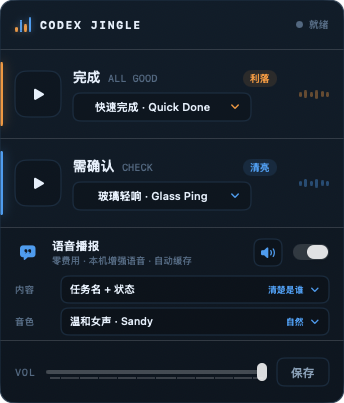
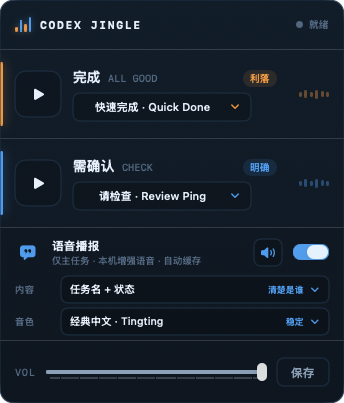
fix: announce parent tasks only

diff --git a/src/CodexNotificationSettings.swift b/src/CodexNotificationSettings.swift
@@ -656,7 +656,7 @@ struct SpeechSettingsRow: View {
                     Text("语音播报")
                         .font(.system(size: 12, weight: .semibold))
                         .foregroundStyle(ink)
-                    Text("零费用 · 本机增强语音 · 自动缓存")
+                    Text("仅主任务 · 本机增强语音 · 自动缓存")
                         .font(.system(size: 9.5, weight: .medium))
                         .foregroundStyle(inkFaint)
                 }

diff --git a/src/codex_spoken_notify.py b/src/codex_spoken_notify.py
@@ -501,6 +501,63 @@ def resolve_session_index_title(thread_id: str) -> str:
     return matched_title
 
 
+def source_marks_subagent(source: str) -> bool:
+    """Return whether Codex's source metadata identifies an internal subagent."""
+    if not source:
+        return False
+    try:
+        value = json.loads(source)
+    except (json.JSONDecodeError, TypeError):
+        return False
+    return isinstance(value, dict) and isinstance(value.get("subagent"), dict)
+
+
+def is_internal_thread(thread_id: str) -> bool:
+    """Suppress spawned agent turns; only user-visible task threads should speak."""
+    if not thread_id:
+        return False
+    for database in STATE_DATABASES:
+        if not database.is_file():
+            continue
+        try:
+            uri = f"file:{database}?mode=ro"
+            connection = sqlite3.connect(uri, uri=True, timeout=0.15)
+            try:
+                connection.execute("PRAGMA query_only = ON")
+                connection.execute("PRAGMA busy_timeout = 150")
+                try:
+                    spawned = connection.execute(
+                        "SELECT 1 FROM thread_spawn_edges "
+                        "WHERE child_thread_id = ? LIMIT 1",
+                        (thread_id,),
+                    ).fetchone()
+                except sqlite3.OperationalError:
+                    spawned = None
+                if spawned:
+                    return True
+                try:
+                    row = connection.execute(
+                        "SELECT thread_source, source FROM threads "
+                        "WHERE id = ? LIMIT 1",
+                        (thread_id,),
+                    ).fetchone()
+                except sqlite3.OperationalError:
+                    row = connection.execute(
+                        "SELECT '', source FROM threads WHERE id = ? LIMIT 1",
+                        (thread_id,),
+                    ).fetchone()
+            finally:
+                connection.close()
+            if row:
+                thread_source = str(row[0] or "").casefold()
+                return thread_source == "subagent" or source_marks_subagent(
+                    str(row[1] or "")
+                )
+        except (OSError, sqlite3.Error):
+            continue
+    return False
+
+
 def resolve_thread_title(thread_id: str, cwd: str) -> tuple[str, str]:
     index_title = resolve_session_index_title(thread_id)
     if index_title:
@@ -516,16 +573,17 @@ def resolve_thread_title(thread_id: str, cwd: str) -> tuple[str, str]:
                     connection.execute("PRAGMA query_only = ON")
                     connection.execute("PRAGMA busy_timeout = 150")
                     row = connection.execute(
-                        "SELECT title, cwd FROM threads WHERE id = ? LIMIT 1",
+                        "SELECT cwd FROM threads WHERE id = ? LIMIT 1",
                         (thread_id,),
                     ).fetchone()
                 finally:
                     connection.close()
                 if row:
-                    title = normalize_title(str(row[0] or ""))
-                    if title:
-                        return title, "thread_db"
-                    db_cwd = str(row[1] or "")
+                    # The database `title` frequently contains the first user
+                    # prompt rather than a product name. Never speak it. The
+                    # explicit Desktop/session-index name is trusted above;
+                    # otherwise use only the project directory as a fallback.
+                    db_cwd = str(row[0] or "")
                     return fallback_title(db_cwd or cwd), "thread_db_cwd"
             except (OSError, sqlite3.Error):
                 continue
@@ -977,6 +1035,17 @@ def handle_notify(raw_payload: str, dry_run: bool = False) -> int:
                 "thread_id": thread_id,
             }
         )
+        return 0
+    if is_internal_thread(thread_id):
+        result = {
+            "status": "ignored_internal_thread",
+            "turn_id": turn_id,
+            "thread_id": thread_id,
+        }
+        if dry_run:
+            print(json.dumps(result, ensure_ascii=False))
+        else:
+            append_event(result)
         return 0
     title, title_source = resolve_thread_title(thread_id, cwd)
     classification, classifier_marker = classify_outcome(final_message)

diff --git a/tests/test_codex_spoken_notify.py b/tests/test_codex_spoken_notify.py
@@ -302,7 +302,7 @@ class SpokenNotifyTests(unittest.TestCase):
             (notifier.STATUS_ATTENTION, "missing_message"),
         )
 
-    def test_resolve_title_from_read_only_database(self) -> None:
+    def test_database_fallback_never_speaks_raw_user_prompt_title(self) -> None:
         with tempfile.TemporaryDirectory() as temp_dir:
             database = Path(temp_dir) / "state.sqlite"
             connection = notifier.sqlite3.connect(database)
@@ -315,8 +315,8 @@ class SpokenNotifyTests(unittest.TestCase):
             connection.close()
             with mock.patch.object(notifier, "STATE_DATABASES", (database,)):
                 title, source = notifier.resolve_thread_title("thread-1", "/tmp/fallback")
-            self.assertEqual(title, "交易系统任务")
-            self.assertEqual(source, "thread_db")
+            self.assertEqual(title, "trading")
+            self.assertEqual(source, "thread_db_cwd")
 
     def test_session_index_title_has_priority_and_uses_latest_name(self) -> None:
         with tempfile.TemporaryDirectory() as temp_dir:
@@ -346,6 +346,69 @@ class SpokenNotifyTests(unittest.TestCase):
                 )
             self.assertEqual(title, "修复 Codex 完成通知")
             self.assertEqual(source, "session_index")
+
+    def test_internal_thread_detection_covers_spawn_edge_and_metadata(self) -> None:
+        with tempfile.TemporaryDirectory() as temp_dir:
+            database = Path(temp_dir) / "state.sqlite"
+            connection = notifier.sqlite3.connect(database)
+            connection.execute(
+                "CREATE TABLE threads ("
+                "id TEXT PRIMARY KEY, thread_source TEXT, source TEXT)"
+            )
+            connection.execute(
+                "CREATE TABLE thread_spawn_edges ("
+                "parent_thread_id TEXT, child_thread_id TEXT PRIMARY KEY, status TEXT)"
+            )
+            connection.executemany(
+                "INSERT INTO threads VALUES (?, ?, ?)",
+                (
+                    ("root", "user", "vscode"),
+                    ("source-child", "subagent", "vscode"),
+                    (
+                        "json-child",
+                        "",
+                        json.dumps({"subagent": {"thread_spawn": {}}}),
+                    ),
+                    ("edge-child", "", "vscode"),
+                ),
+            )
+            connection.execute(
+                "INSERT INTO thread_spawn_edges VALUES (?, ?, ?)",
+                ("root", "edge-child", "open"),
+            )
+            connection.commit()
+            connection.close()
+            with mock.patch.object(notifier, "STATE_DATABASES", (database,)):
+                self.assertFalse(notifier.is_internal_thread("root"))
+                self.assertTrue(notifier.is_internal_thread("source-child"))
+                self.assertTrue(notifier.is_internal_thread("json-child"))
+                self.assertTrue(notifier.is_internal_thread("edge-child"))
+
+    def test_internal_thread_completion_is_silent(self) -> None:
+        payload = json.dumps(
+            {
+                "type": "agent-turn-complete",
+                "thread-id": "subagent-thread",
+                "turn-id": "subagent-turn",
+                "last-assistant-message": "任务已完成。",
+            }
+        )
+        with (
+            mock.patch.object(notifier, "is_internal_thread", return_value=True),
+            mock.patch.object(notifier, "resolve_thread_title") as resolve_title,
+            mock.patch.object(notifier, "append_event") as append_event,
+            mock.patch.object(notifier, "launch_worker") as launch_worker,
+        ):
+            self.assertEqual(notifier.handle_notify(payload), 0)
+        resolve_title.assert_not_called()
+        launch_worker.assert_not_called()
+        append_event.assert_called_once_with(
+            {
+                "status": "ignored_internal_thread",
+                "turn_id": "subagent-turn",
+                "thread_id": "subagent-thread",
+            }
+        )
 
     def test_missing_thread_falls_back_to_cwd(self) -> None:
         with mock.patch.object(notifier, "STATE_DATABASES", (Path("/missing"),)):
